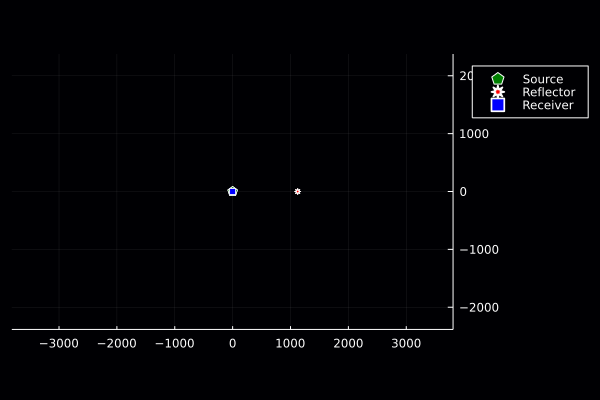
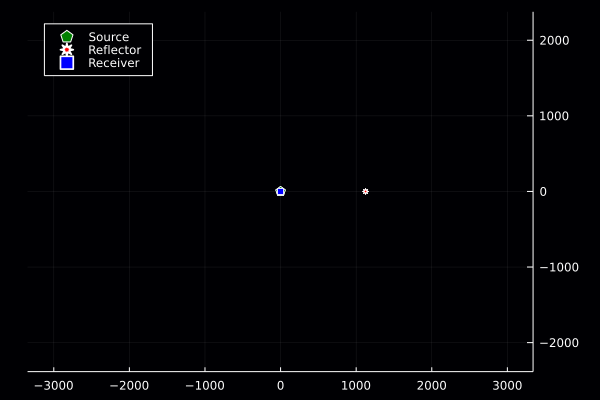
update LTIOmni A

diff --git a/docs/src/omniDirectionalLTI/omnidirLTIsource.md b/docs/src/omniDirectionalLTI/omnidirLTIsource.md
@@ -71,38 +71,38 @@ Given the assumptions, we simulate the following geometry for scenario A.
 
 ### Forward Modeling
 
-For scenario A, we provided the position of the source $𝐩ₛ$, the receiver's position $𝐩ᵣ$, being at the same location $(𝐩ₛ=𝐩ᵣ)$, the transmitted signal $p(t)$, and an ideal point reflector $\bm{\xi}_0$.
+For scenario A, we provided the position of the source $𝐩ₛ$, the receiver's position $𝐩ᵣ$, being at the same location $(𝐩ₛ=𝐩ᵣ)$, the transmitted signal 
+$\mathsf{p(t)}$, and an ideal point reflector $\bm{\xi}_0$.
 
 Now the expression for the reflector function is given by
 
-$f(\bm{\xi}) = \alpha_0 \delta(\bm{\xi} - \bm{\xi}_0).$
+$\mathsf{f(\bm{\xi})} = \mathsf{\alpha_0} \delta(\bm{\xi} - \bm{\xi}_0).$
 
 We compute the reflection due to the source as follows
 
-$r(\bm{\xi},t) = \alpha_0 \delta(\bm{\xi} - \bm{\xi}_0)
-\mathrm{A}\left(\frac{\|\bm{\xi}-\mathbf{p}_\mathrm{s}\|}
-{\mathrm{c}}\right) p\left(t-\frac{\|\bm{\xi}-\mathbf{p}_\mathrm{s}\|}{\mathrm{c}}\right).$
+$\mathsf{r}(\bm{\xi},t) = \mathsf{\alpha_0} \delta(\bm{\xi} - \bm{\xi}_0)
+\mathsf{A}\left(\frac{\|\bm{\xi}-\mathbf{p}_\mathrm{s}\|}
+{\mathrm{c}}\right) \mathsf{p}\left(t-\frac{\|\bm{\xi}-\mathbf{p}_\mathrm{s}\|}{\mathrm{c}}\right).$
 
 
-Finally, the closed form expression of the observed signal, $z(t)$
+Finally, the closed form expression of the observed signal, $\mathsf{z(t)}$
 with $(𝐩ₛ=𝐩ᵣ)$ is given by
 
-$z(t) = \alpha_0 \mathrm{A}^2
+$\mathsf{z(t)} = \mathsf{\alpha_0} \mathsf{A}^2
 \left(\frac{\|\mathbf{p}_\mathrm{r}-\bm{\xi}_0\|}
-{\mathrm{c}}\right)p\left(t -2\frac{\|\mathbf{p}_\mathrm{r}-\bm{\xi}_0\|}{\mathrm{c}}\right).$
+{\mathrm{c}}\right)\mathsf{p}\left(t -2\frac{\|\mathbf{p}_\mathrm{r}-\bm{\xi}_0\|}{\mathrm{c}}\right).$
 
 ```julia
 using LTVsystems, Plots
 𝐩ₛ =  [0.0, 0.0]
 𝐩ᵣ =  𝐩ₛ
 tₚ = 1.0e-06 
-T  = 15.0e-6
 p(t) = δn(t-tₚ,1.0e-07)
 q = LTIsourceO(𝐩ₛ, p)
-α₀ = 0.7; 𝛏₀ = [0.25c*T,0.0] 
+α₀ = -0.7; 𝛏₀ = [3.75e-06c,0.0] 
 r = pointReflector(𝛏₀,α₀,q)
 z = LTIreceiverO([r],𝐩ᵣ)
-t=0.0:T/100:2T
+t=0.0:1.0e-08:25.0e-06
 p1 = plot(t,p, xlab="time (sec)", ylab="p(t)", legend=:false)
 p2 = plot( t, z(t), xlab="time (sec)", ylab="z(t)", legend=:false)
 plot(p1,p2,layout=(2,1))
@@ -111,25 +111,25 @@ plot(p1,p2,layout=(2,1))
 
 ### Inverse Modeling
 
-Given the scenario A assumptions, we obtained the received signal, $z(t)$. Now we can estimate the reflector function by considering the transmitted signal 
-$p(t)=δ(t-t_p)$ as follows
+Given the scenario A assumptions, we obtained the received signal, $\mathsf{z(t)}$. Now we can estimate the reflector function by considering the transmitted signal as follows
 
-$\hat{f}(\bm{\xi}) = \dfrac{z\left(t_p+\frac{2\|\bm{\xi}-\mathbf{p}_\mathrm{r}\|}{\mathrm{c}}\right)}
-{\mathrm{A}^2\big(\frac{\|\bm{\xi}-\mathbf{p}_\mathrm{r}\|}{\mathrm{c}}\big)}.$
+$\mathsf{p(t)}=δ(t-\mathrm{t_p})$ 
+
+$\mathsf{\hat{f}}(\bm{\xi}) = \dfrac{\mathsf{z}\left(\mathrm{t_p}+\frac{2\|\bm{\xi}-\mathbf{p}_\mathrm{r}\|}{\mathrm{c}}\right)}
+{\mathsf{A}^2\big(\frac{\|\bm{\xi}-\mathbf{p}_\mathrm{r}\|}{\mathrm{c}}\big)}.$
 
 ```julia
 using LTVsystems, Plots
 𝐩ₛ =  [0.0, 0.0]
 𝐩ᵣ =  𝐩ₛ
 tₚ = 1.0e-06 
-T  = 15.0e-6
 p(t) = δn(t-tₚ,1.0e-07)
 q = LTIsourceO(𝐩ₛ, p)
-α₀ = 0.7; 𝛏₀ = [0.25c*T,0.0] 
+α₀ = -0.7; 𝛏₀ = [3.75e-06c,0.0]
 r = pointReflector(𝛏₀,α₀,q)
 z = LTIreceiverO([r],𝐩ᵣ)
 f(ξ::Vector{Float64}) = z(tₚ.+ 2(norm(ξ-𝐩ₛ))/c)/(A(norm(ξ-𝐩ₛ)/c))^2
-inversePlot2D([q],[r],[z],f,T)
+inversePlot2D([q],[r],[z],f)
 ```
 ![](https://raw.githubusercontent.com/NMSU-ISA/LTVsystems/main/docs/src/assets/scenarioA_simulation.png)
 
